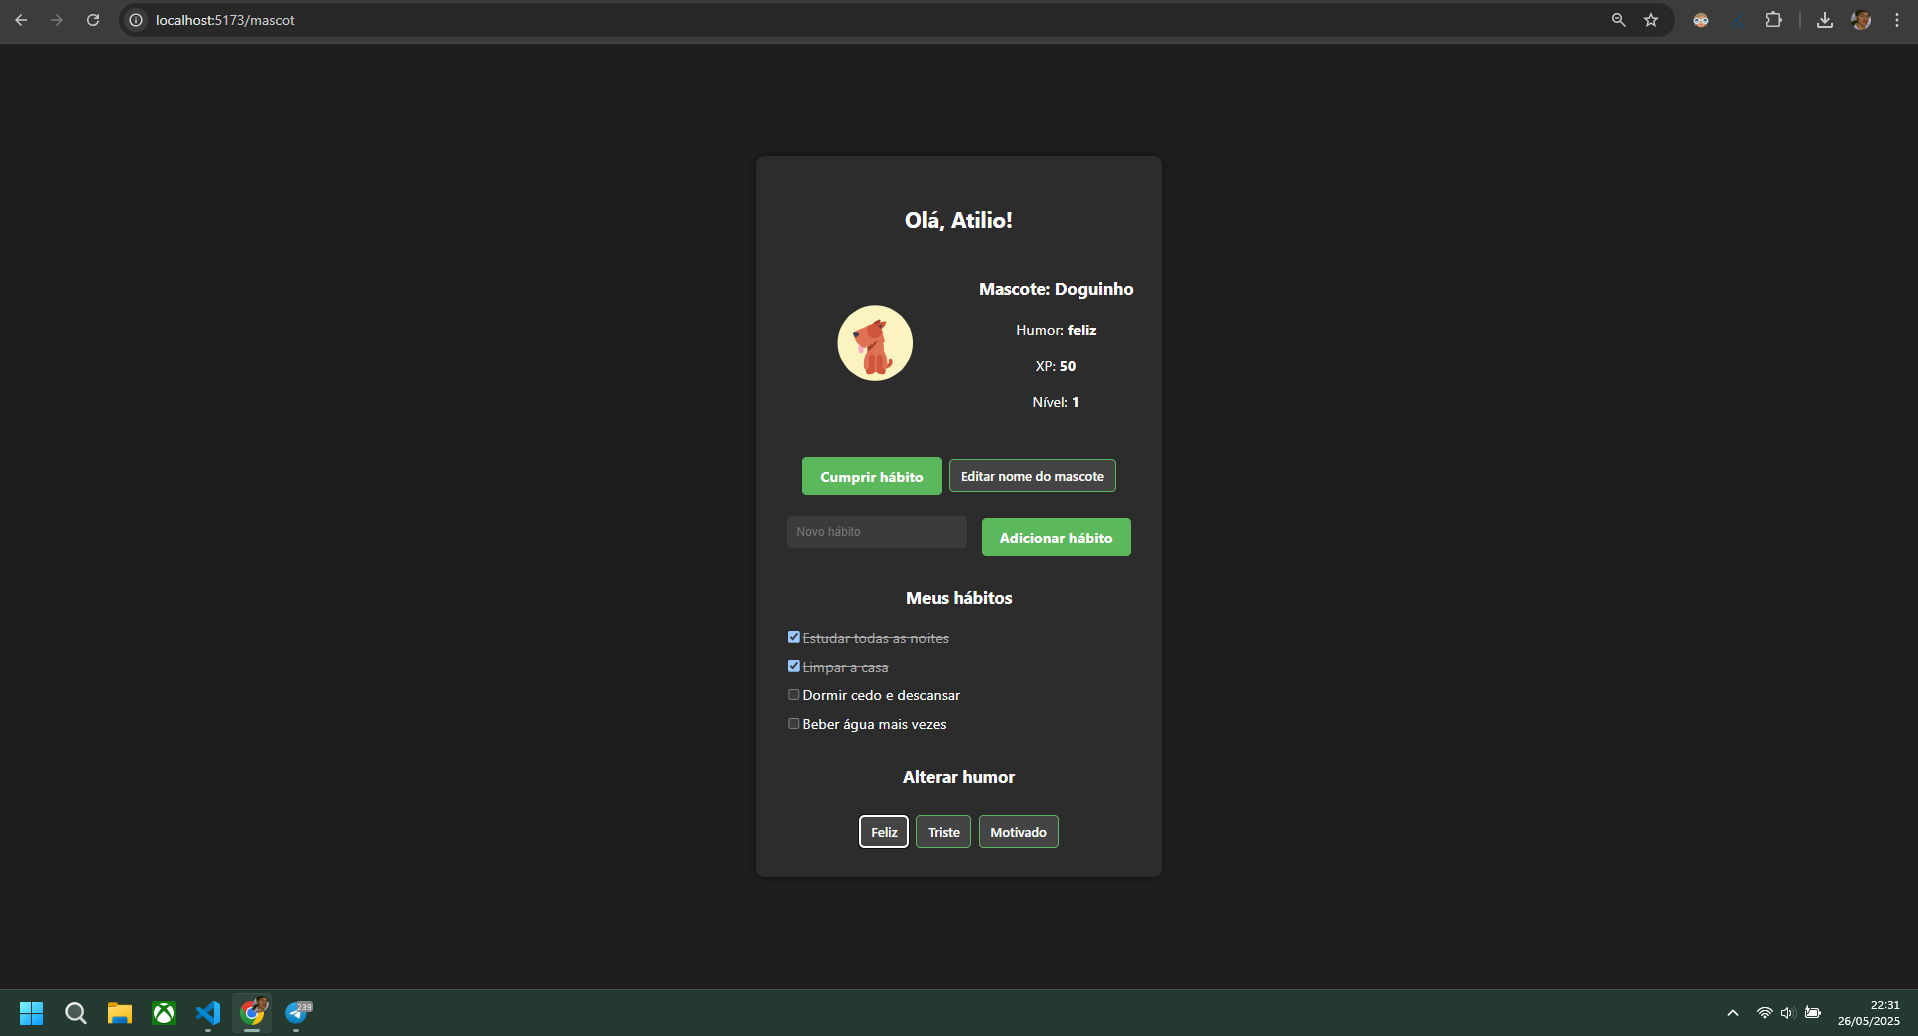
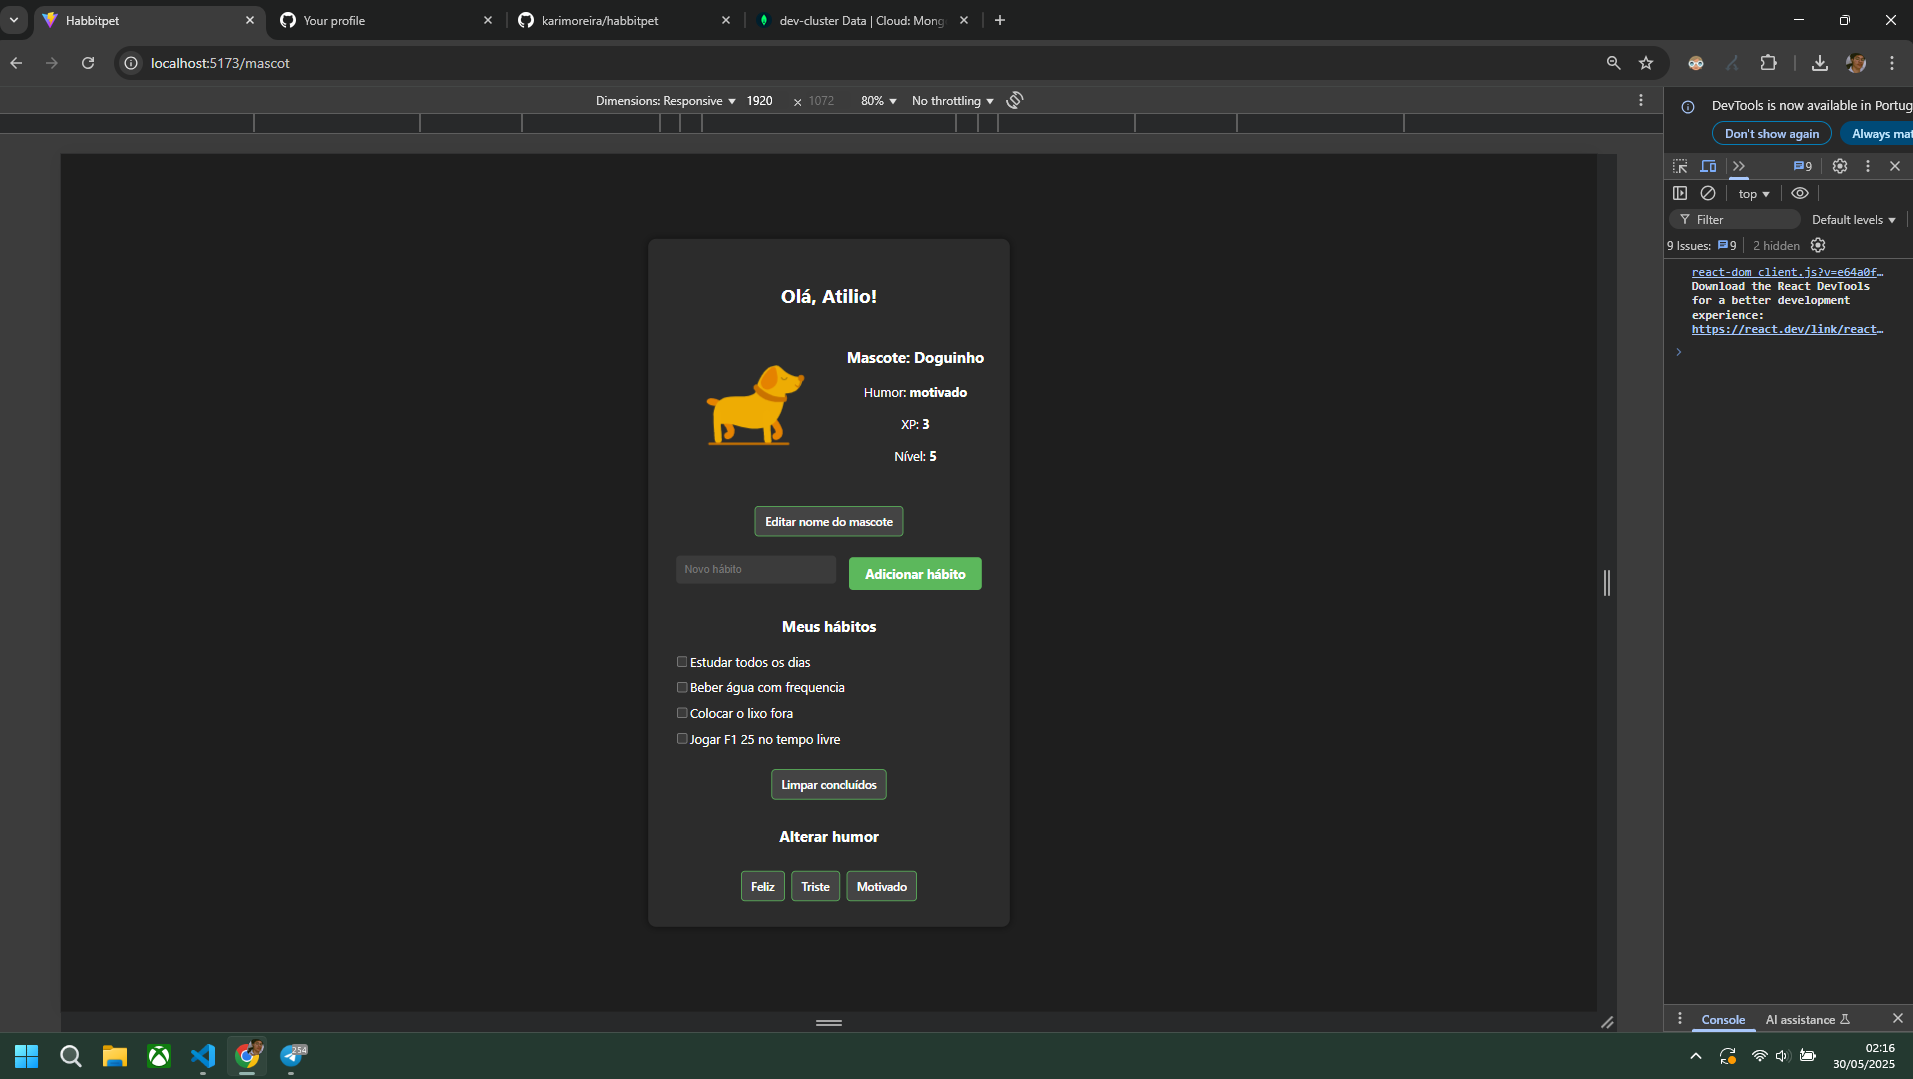
feat: atualização do readme e imgs

diff --git a/README.md b/README.md
@@ -2,7 +2,6 @@
 
 Um aplicativo web interativo onde seu mascote evolui conforme você cumpre hábitos diários. Acompanhe seu progresso, ganhe XP, altere o humor do pet e veja animações em tempo real com integração Lottie.
 
----
 
 ## Funcionalidades
 
@@ -10,10 +9,8 @@ Um aplicativo web interativo onde seu mascote evolui conforme você cumpre hábi
 - Criação e checklist de hábitos
 - Geração de XP e evolução de nível
 - Mascote com humor dinâmico (feliz, triste, motivado)
-- Animações em tempo real com Lottie
-- Personalização de nome do mascote
+- permitir a troca de mascote com 3 pets disponíveis com Lottie
 
----
 
 ## Tecnologias utilizadas
 
@@ -29,7 +26,6 @@ Um aplicativo web interativo onde seu mascote evolui conforme você cumpre hábi
 - JWT para autenticação
 - Dotenv para configuração segura
 
----
 
 ## Organização do Projeto
 
@@ -39,7 +35,6 @@ Um aplicativo web interativo onde seu mascote evolui conforme você cumpre hábi
 - Autenticação protegida com middleware
 - Rotas RESTful (habits, user, mascot, mood)
 
----
 
 ## Imagens
 
@@ -61,6 +56,15 @@ Um aplicativo web interativo onde seu mascote evolui conforme você cumpre hábi
 </div>
 
 
-## Próximos passos
-- Sistema de recompensas personalizadas com XP
+## XP
+- adicionei recompensas ou conquistas visuais para cada nível
+- histórico de hábitos 
+- remoção de hábitos completos caso queira
+- exibi "Subiu de nível" apenas quando 4 hábitos forem concluídos e o nível realmente subir
+- backend para garantir que só 1 nível seja ganho por vez
+- o mascote muda para "motivado" ao subir de nível
+
+## Cluster - Banco de dados 
+
+O banco foi criado no meu cluster gratuito do MongoDB Atlas. A coleção users armazena os dados dos usuários, como nome, e-mail, XP, nível, humor, hábitos e nome do mascote. A conexão é feita de forma segura usando variáveis de ambiente e o Mongoose no backend.
 
